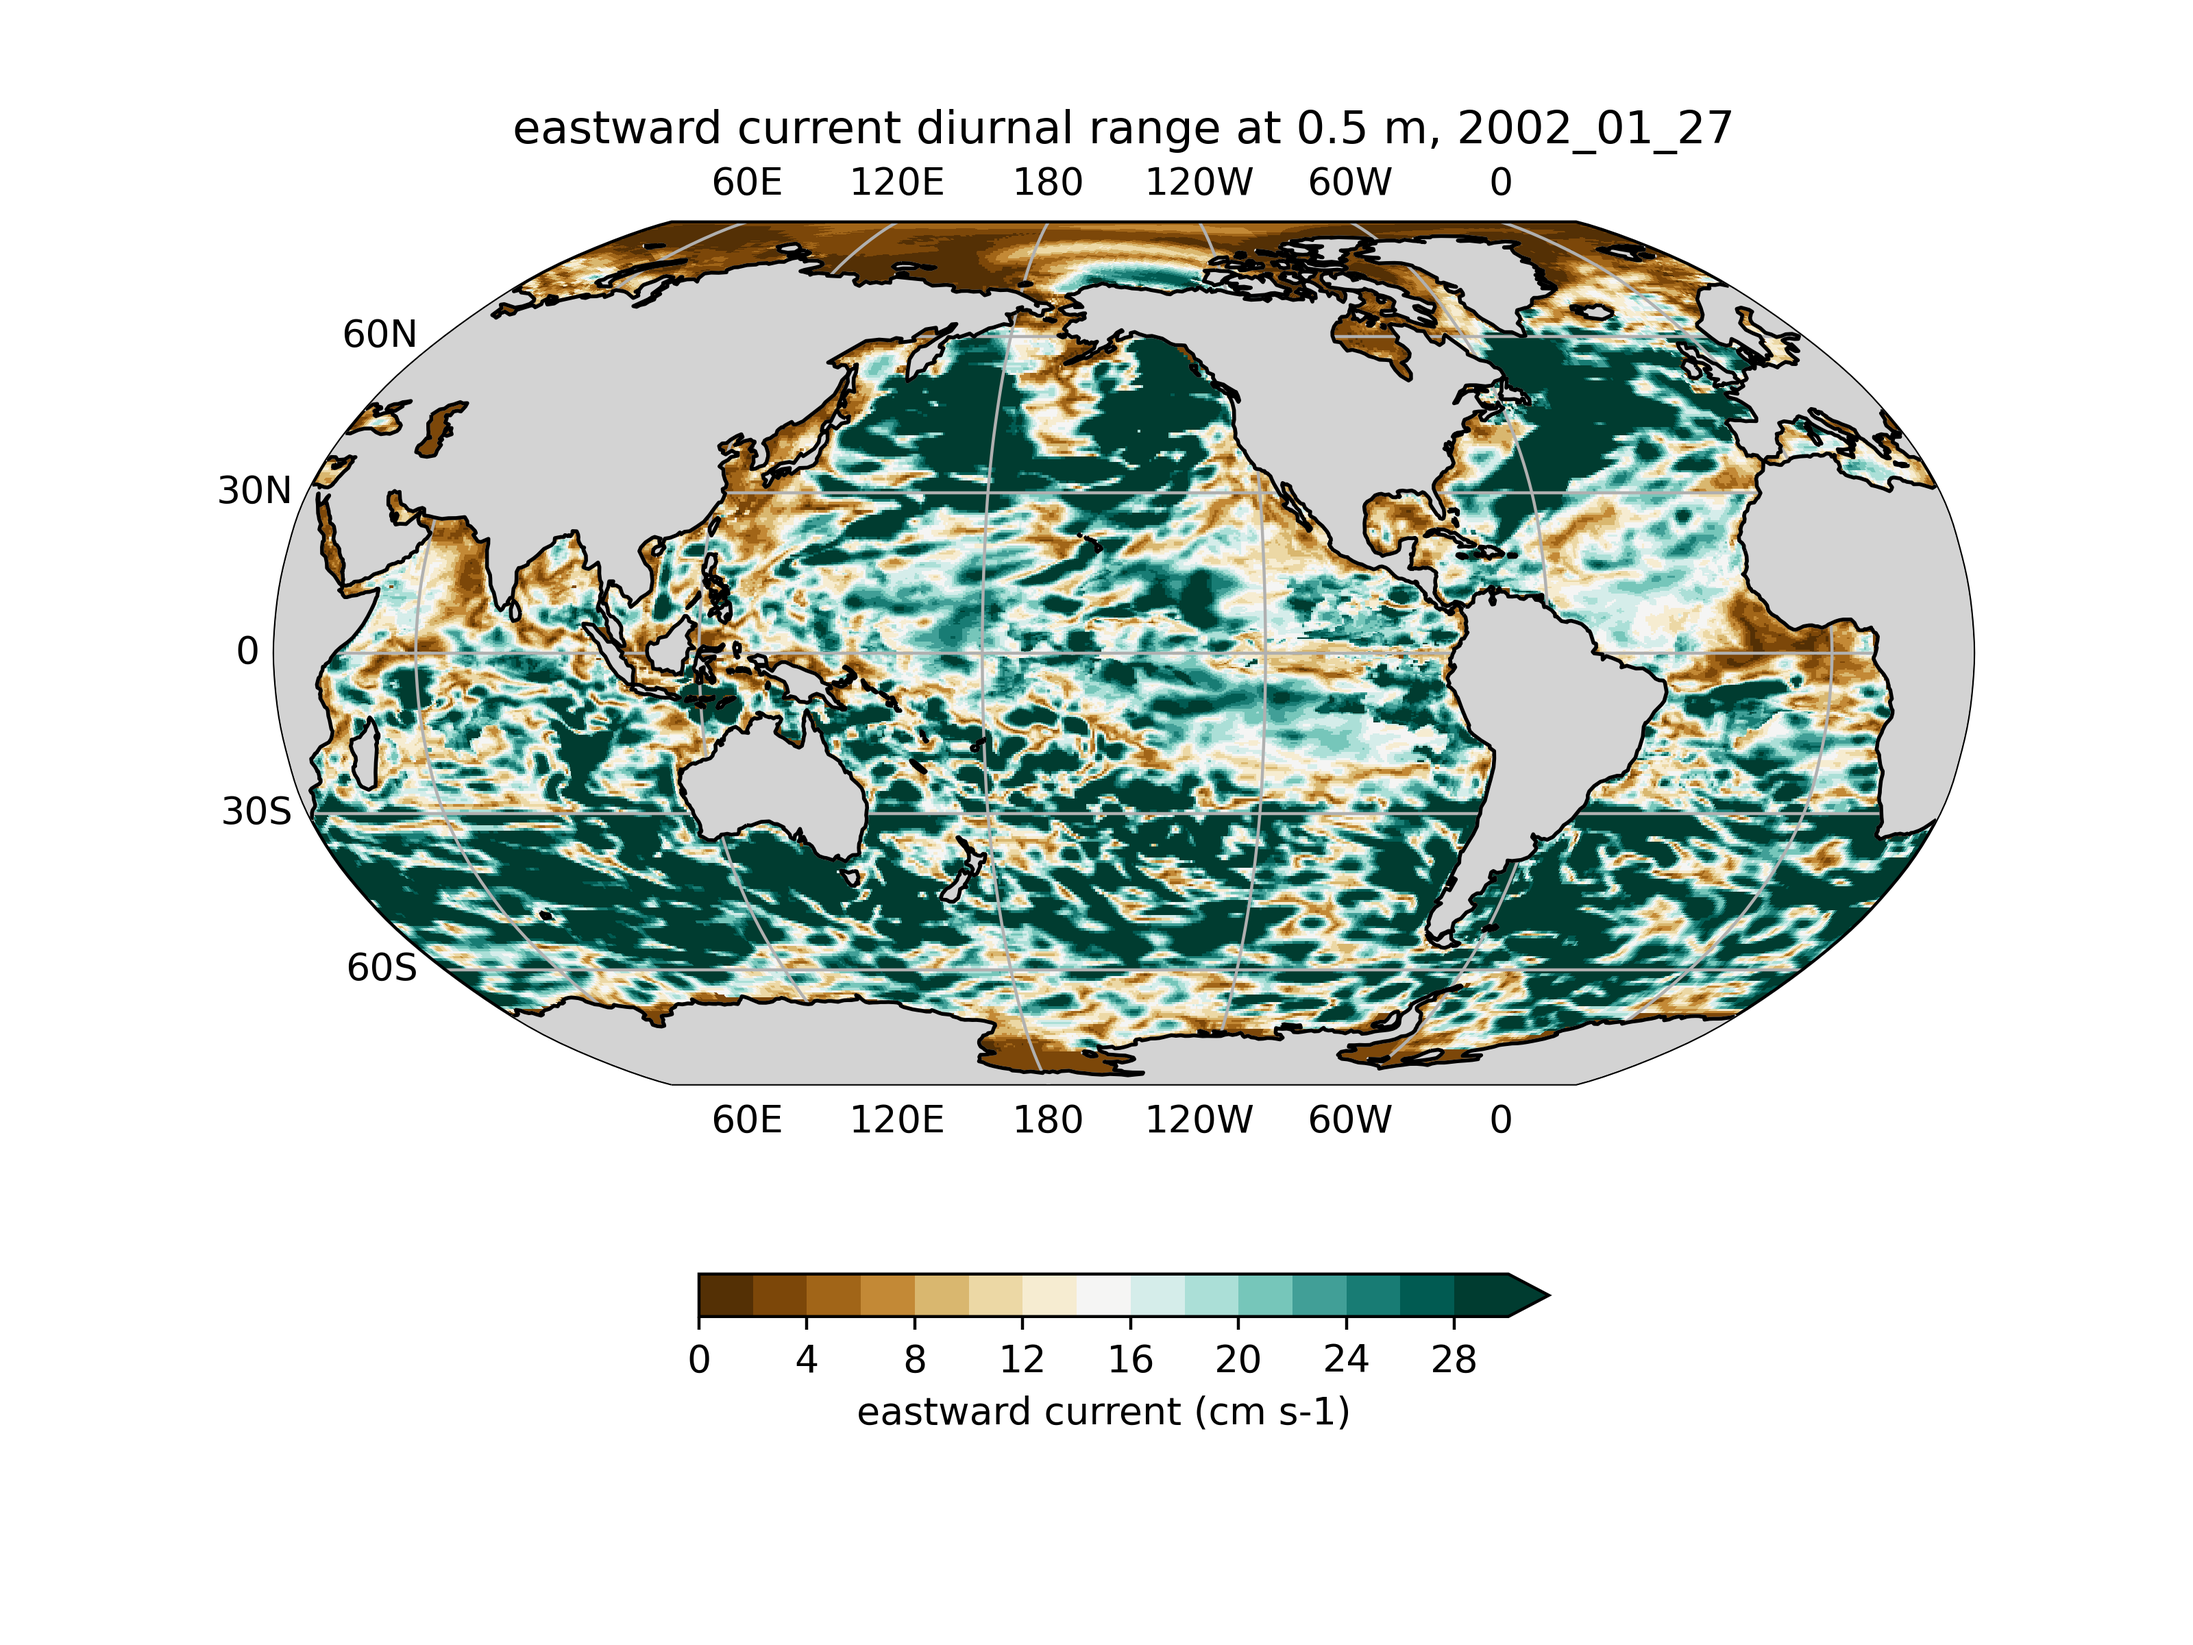
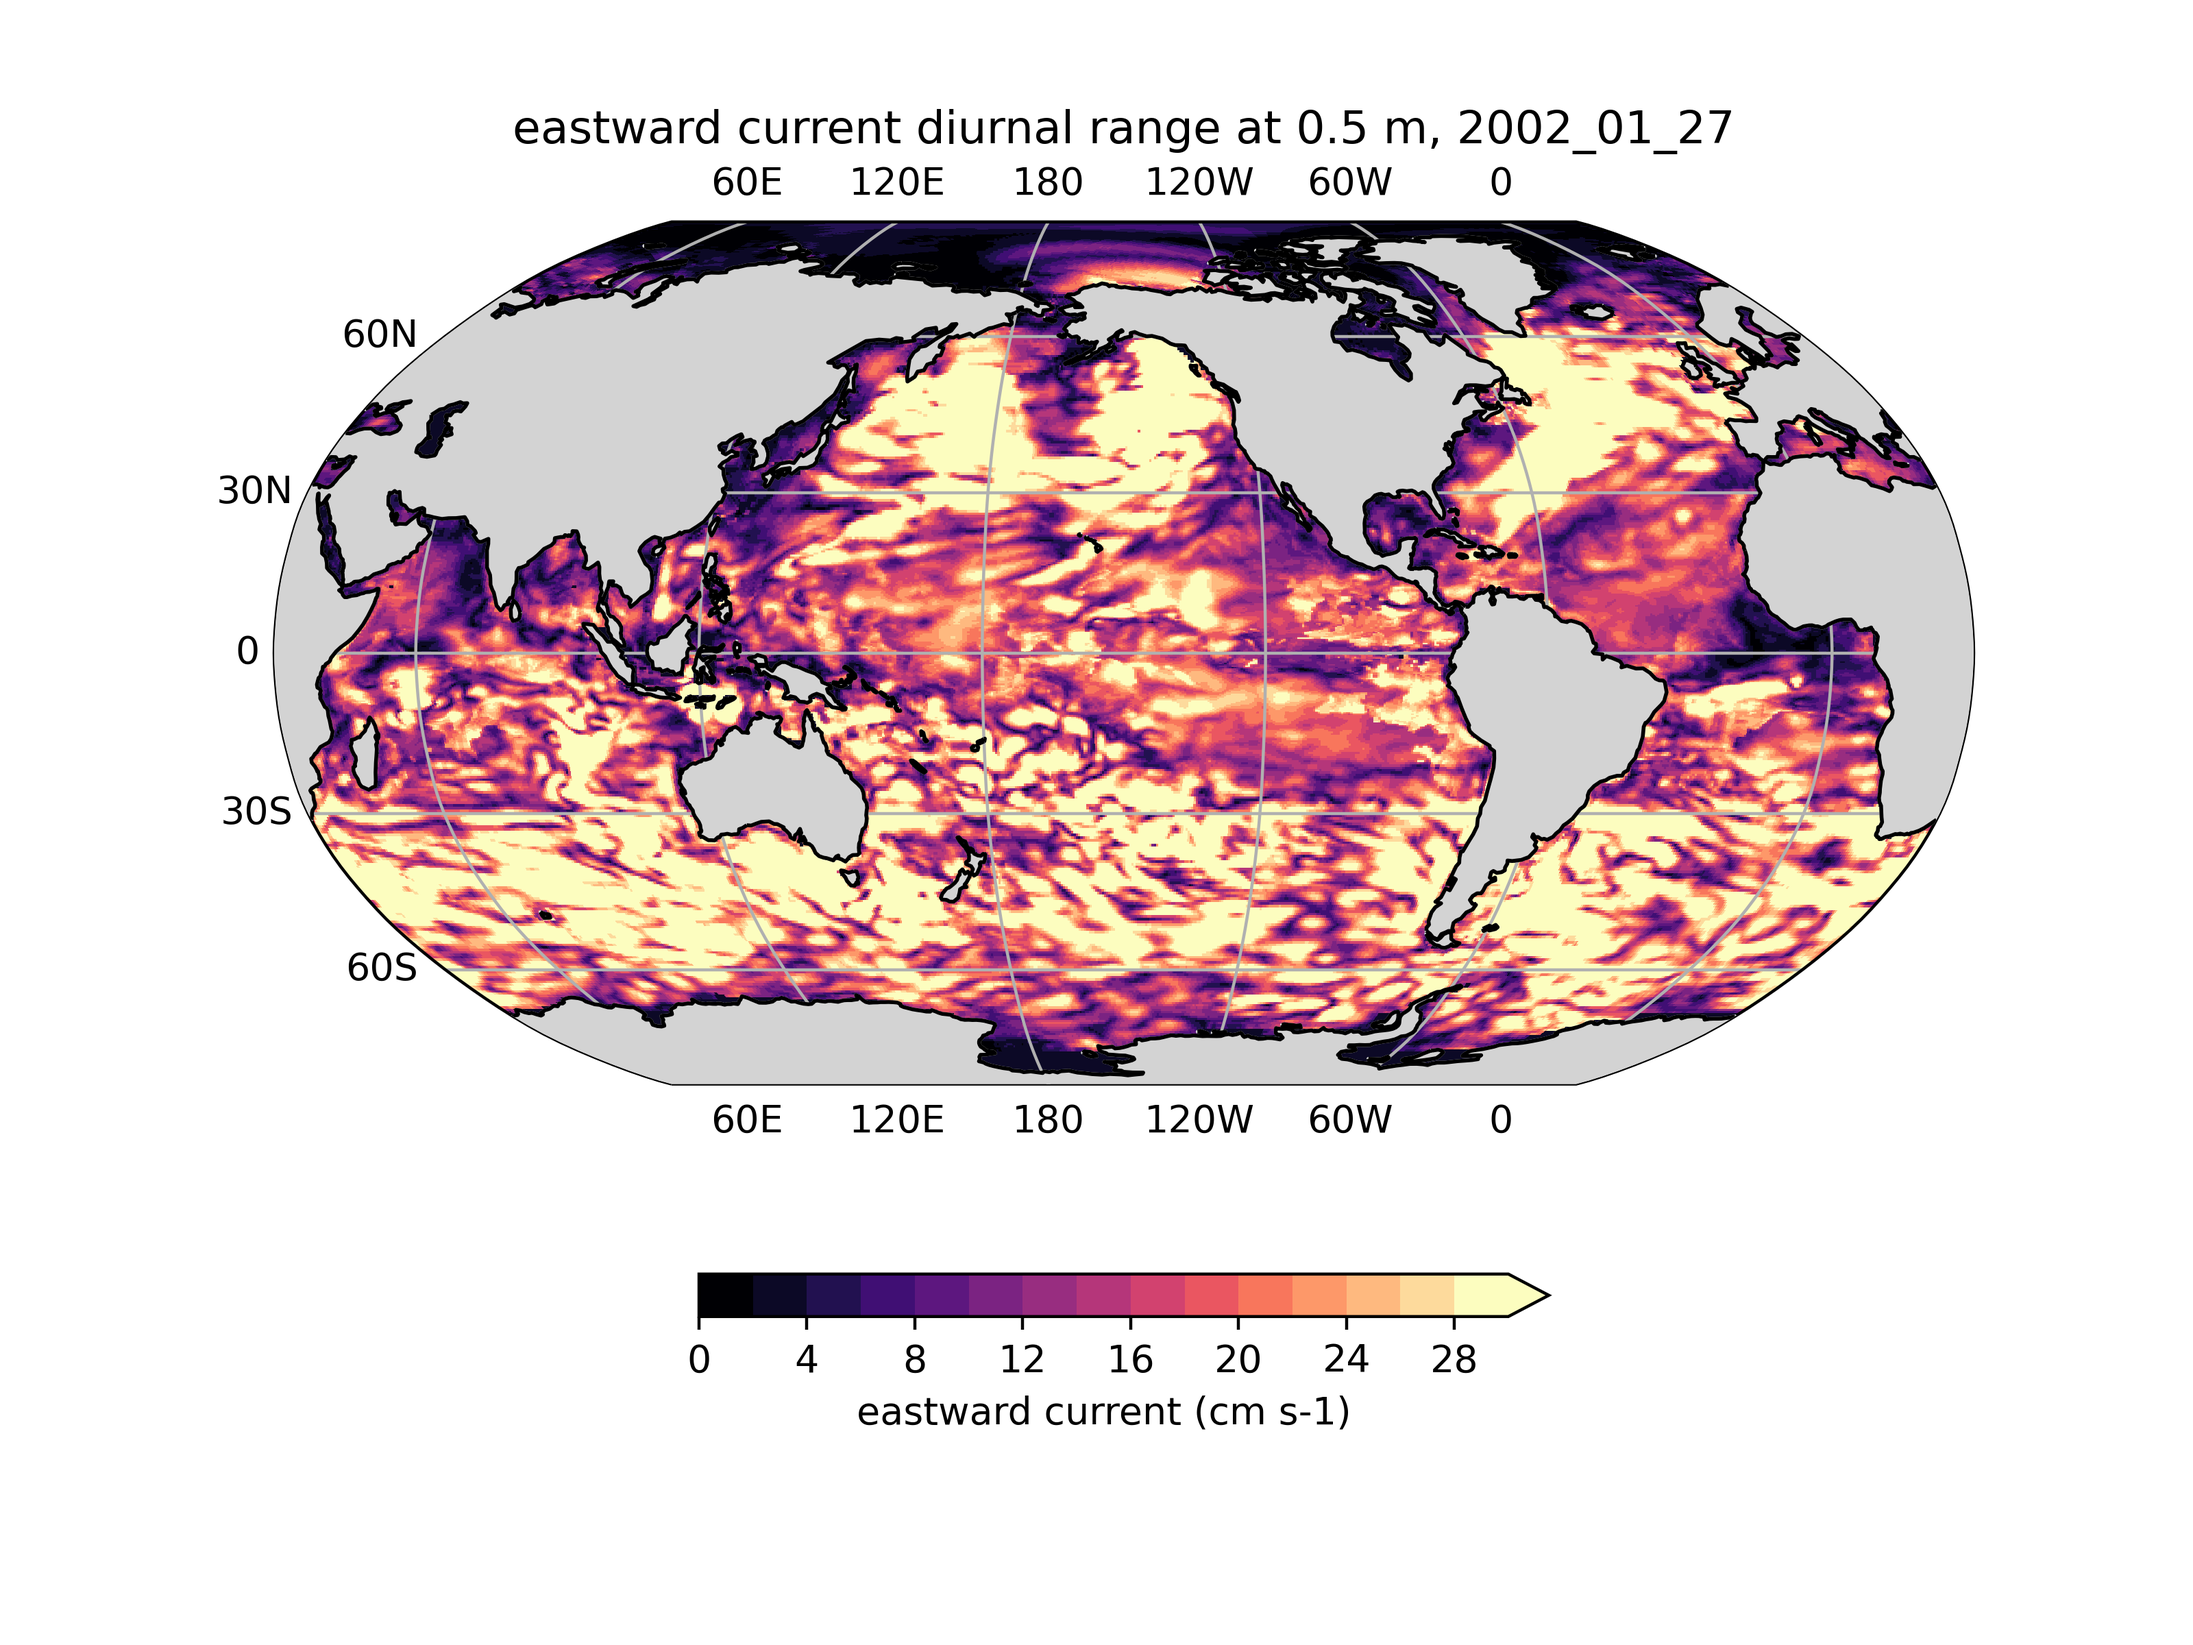
Updates plot details.

diff --git a/diurnal_cycle/analysis/current_daily_range_maps.py b/diurnal_cycle/analysis/current_daily_range_maps.py
@@ -77,7 +77,7 @@ def main(plot_date, plot_var):
     ax.add_feature(cfeature.LAND, facecolor='lightgray', zorder=4)
     
     # Define color map.
-    cmap_b = plt.get_cmap('BrBG')
+    cmap_b = plt.get_cmap(plot_dets(plot_var, 'cmap'))
     norm_b = colors.BoundaryNorm(
         np.arange(plot_dets(plot_var, 'min'),
                   plot_dets(plot_var, 'max')*1.01,

diff --git a/diurnal_cycle/analysis/current_monthly_mean_maps.py b/diurnal_cycle/analysis/current_monthly_mean_maps.py
@@ -160,8 +160,8 @@ def plot_dets(vn, att):
 	    'latname':'geolat_c',
 	    'lonname':'geolon_c',
 	    'plotname':'eastward current',
-	    'min':-30.0,
-	    'max':30.0,
+	    'min':-50.0,
+	    'max':50.0,
 	    'step':5.0,
 	    'units':'cm s-1',
 	    'cmap':'BrBg'
